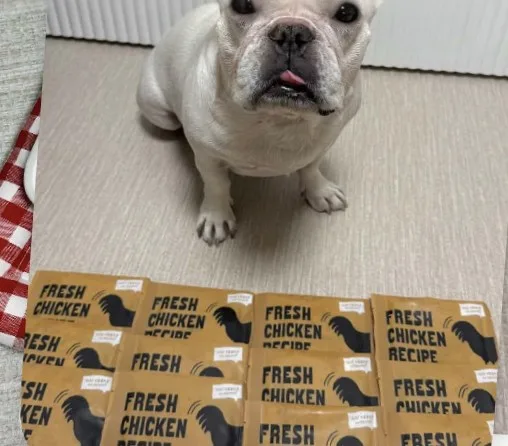
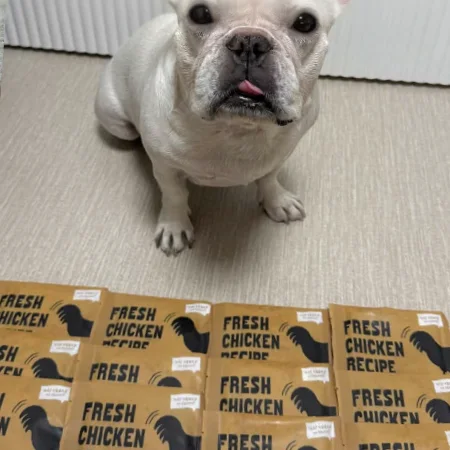
가게 후기 사진 다시 — 세 장 다(그릇 사진 추가·토핑은 보호자님이 올렸다고 밝힘), 정사각형으로 잘라 1:1 칸에(사장님 10/17 '애매하게 잘렸다', 규칙288)

diff --git a/lib/store/reviews.ts b/lib/store/reviews.ts
@@ -4,7 +4,9 @@
  * - 후기 쓰기 기능은 아직 없다(2026-07-16 폐기) — 이 목록이 정본이다. 레시피에 후기가 없으면 상품 화면은 '모으는 중' 안내를 보인다.
  * - 줄여 옮길 땐 그렇다고 밝힌다(note). 상품 페이지에 올린 후기는 우리 광고라서 질병 이름·치료 효과로 읽히는 문장은 옮기지 않는다
  *   (사료 표시·광고 — 규칙286 이 지킨다). 사정을 살릴 땐 병명 없이 쓴다(예: '치료 중이라' — 사장님 10/15 선택).
- * - 사진은 public/store/review-*.webp. 손님 사진에 우리 레시피에 없는 토핑이 올라가 있으면 쓰지 않는다(재료 오해).
+ * - 사진은 public/store/review-*.webp, **정사각형으로 미리 잘라 둔다**(규칙288) — 화면은 1:1 칸에 그대로 담는다.
+ *   10/17 사장님 "애매하게 잘렸다·다른 사진도 보냈잖아": 2:1 칸에 높이를 고정해 팩 사진이 좁은 칸에서 양옆이 잘렸고, 그릇 사진은 빠져 있었다.
+ * - 손님이 우리 레시피에 없는 토핑을 올린 사진은 caption 으로 그렇다고 밝힌다(재료 오해 방지 — 사장님 10/17 세 장 다 쓰기로).
  */
 import type { StoreRecipe } from './catalog.ts'
 
@@ -17,7 +19,8 @@ export type StoreReview = {
   /** 후기에서 고른 한 줄(따옴표 안에 보인다). */
   title: string
   body: string
-  photos: ReadonlyArray<{ src: string; alt: string }>
+  /** 첫 장이 크게, 나머지는 아래에 두 칸씩. 전부 정사각형 파일. */
+  photos: ReadonlyArray<{ src: string; alt: string; caption?: string }>
   /** 어디서 받았고 어떻게 옮겼는지(줄였으면 줄였다고). */
   note: string
 }
@@ -33,6 +36,11 @@ export const STORE_REVIEWS: readonly StoreReview[] = [
     photos: [
       { src: '/store/review-roa-eat.webp', alt: '흰 그릇에 담긴 닭고기 화식을 먹는 프렌치 불도그 로아' },
       { src: '/store/review-roa-packs.webp', alt: '닭고기 화식 팩들 앞에 앉은 로아' },
+      {
+        src: '/store/review-roa-bowl.webp',
+        alt: '보호자님이 토핑을 올려 차린 닭고기 화식 한 그릇',
+        caption: '토핑은 보호자님이 올리셨어요',
+      },
     ],
     note: '인스타그램으로 남겨 주신 후기를 줄여 옮겼어요',
   },

diff --git a/components/store/ProductDetail.tsx b/components/store/ProductDetail.tsx
@@ -510,10 +510,18 @@ export default function ProductDetail({ recipe, label, paused }: { recipe: Store
         ) : (
           reviews.map((r) => (
             <article key={r.id} style={{ border: '2px solid #141414', borderRadius: 4, overflow: 'hidden', display: 'flex', flexDirection: 'column' }}>
-              <div style={{ display: 'grid', gridTemplateColumns: r.photos.length > 1 ? '2fr 1fr' : '1fr', gap: 2, background: '#141414' }}>
+              {/* 사진 = 첫 장 크게 + 나머지 두 칸씩, 전부 1:1(파일도 정사각형 — 규칙288). 예전 2:1 고정 높이 칸은 좁은 칸의 사진 양옆을 잘랐다. */}
+              <div style={{ display: 'grid', gridTemplateColumns: '1fr 1fr', gap: 2, background: '#141414' }}>
                 {r.photos.map((p, i) => (
-                  // eslint-disable-next-line @next/next/no-img-element
-                  <img key={p.src} src={p.src} alt={p.alt} loading="lazy" width={i === 0 ? 900 : 508} height={i === 0 ? 900 : 446} style={{ width: '100%', height: 232, objectFit: 'cover', objectPosition: i === 0 ? '50% 50%' : '50% 20%', display: 'block' }} />
+                  <figure key={p.src} style={{ margin: 0, position: 'relative', gridColumn: i === 0 || (i === r.photos.length - 1 && i % 2 === 1) ? '1 / -1' : undefined }}>
+                    {/* eslint-disable-next-line @next/next/no-img-element */}
+                    <img src={p.src} alt={p.alt} loading="lazy" width={600} height={600} style={{ width: '100%', aspectRatio: '1 / 1', objectFit: 'cover', display: 'block' }} />
+                    {p.caption && (
+                      <figcaption style={{ position: 'absolute', left: 8, bottom: 8, padding: '3px 8px', borderRadius: 2, background: 'rgba(20,20,20,0.78)', color: '#fff', fontSize: 13, fontWeight: 700, lineHeight: 1.35 }}>
+                        {p.caption}
+                      </figcaption>
+                    )}
+                  </figure>
                 ))}
               </div>
               <div style={{ padding: '18px 18px 16px', display: 'flex', flexDirection: 'column', gap: 10 }}>
